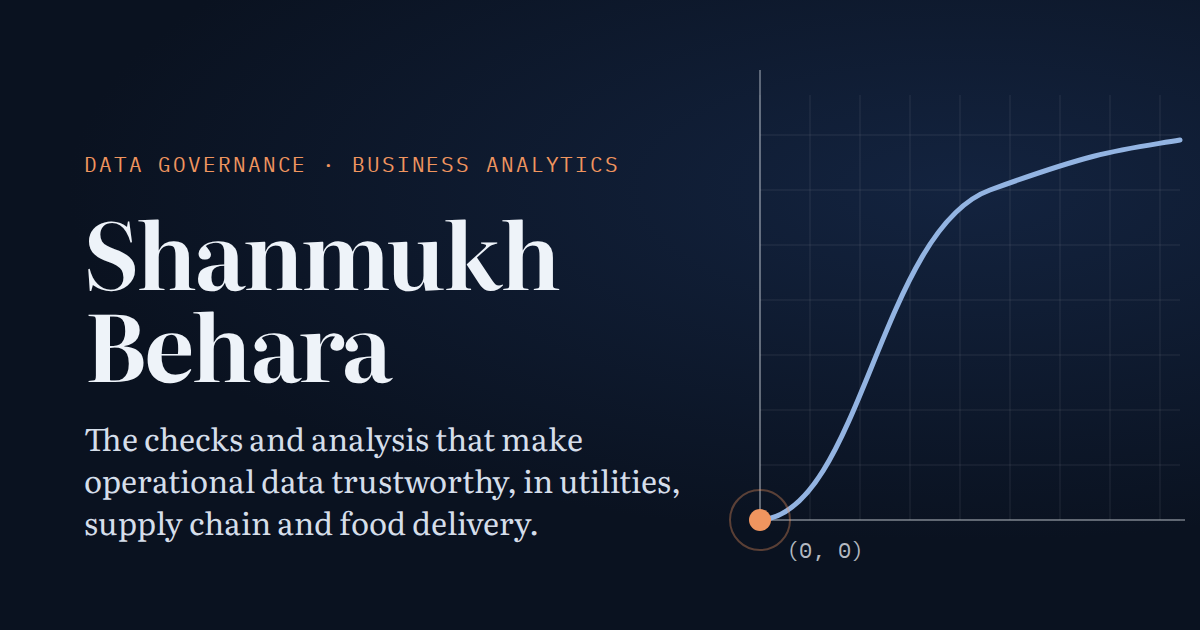
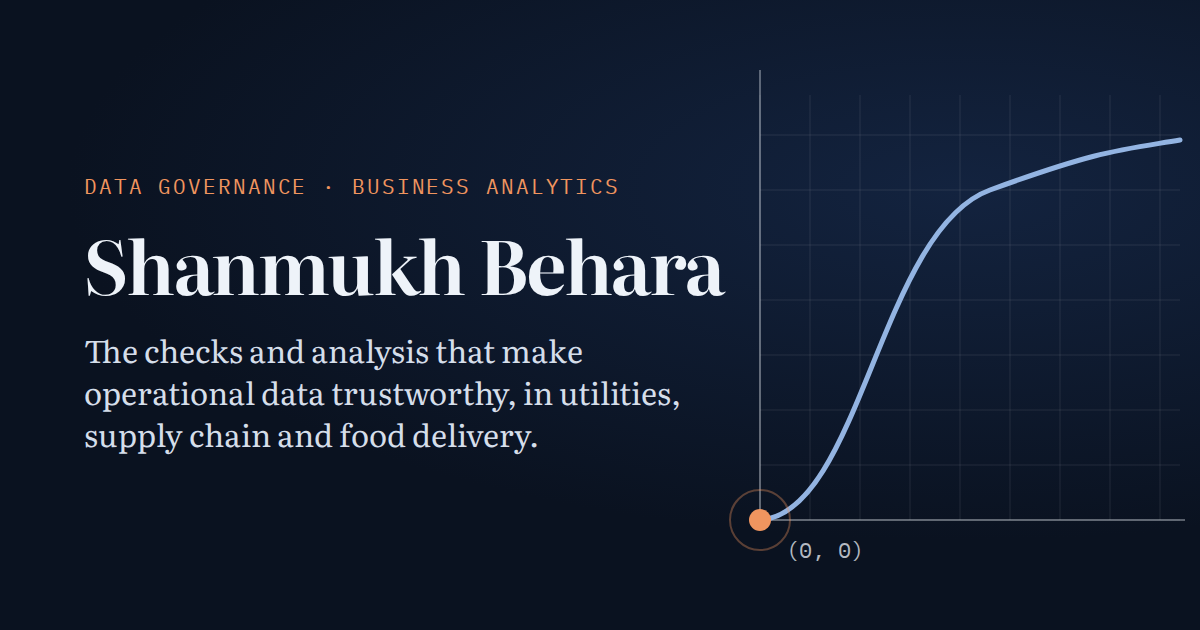
Keep the name on one line in the hero and the share card
The hero name now scales with its text column (container units, up to
4.7rem) and never wraps, from 320 px phones to wide screens. The share
card sets the name on one line to match.

Claude-Session: https://claude.ai/code/session_01Rez2FKexJoxHU2A1AZJ5s2

diff --git a/assets/style.css b/assets/style.css
@@ -101,10 +101,11 @@ h3 { font-size: 1.28rem; }
 @media (min-width: 900px) { .showcase::after { background: linear-gradient(90deg, rgba(10, 18, 32, 0.95) 0%, rgba(10, 18, 32, 0.9) 50%, rgba(10, 18, 32, 0) 68%); } }
 @media (max-width: 899px) { .showcase { padding-bottom: 210px; } }
 .showcase-inner { position: relative; z-index: 1; }
-.hero-text { max-width: 40rem; }
+.hero-text { max-width: 42rem; container-type: inline-size; }
 .showcase :focus-visible { outline-color: var(--dark-warm); }
 .eyebrow { color: var(--dark-warm); margin: 0 0 16px; }
-h1 { font-size: clamp(2.6rem, 7.5vw, 4.8rem); font-weight: 650; letter-spacing: -0.03em; line-height: 1.02; color: var(--dark-ink); }
+/* the name stays on one line: it scales with the text column, up to 4.7rem */
+h1 { font-size: clamp(2rem, 9vw, 4.7rem); font-size: min(4.7rem, 11cqi); white-space: nowrap; font-weight: 650; letter-spacing: -0.03em; line-height: 1.02; color: var(--dark-ink); }
 .role-line { color: var(--dark-muted); margin: 16px 0 0; letter-spacing: 0.06em; line-height: 1.6; }
 .lede { font-size: clamp(1.12rem, 2vw, 1.32rem); line-height: 1.5; margin: 20px 0 28px; color: var(--dark-ink); }
 .actions { display: flex; flex-wrap: wrap; gap: 10px; margin: 0 0 32px; }
